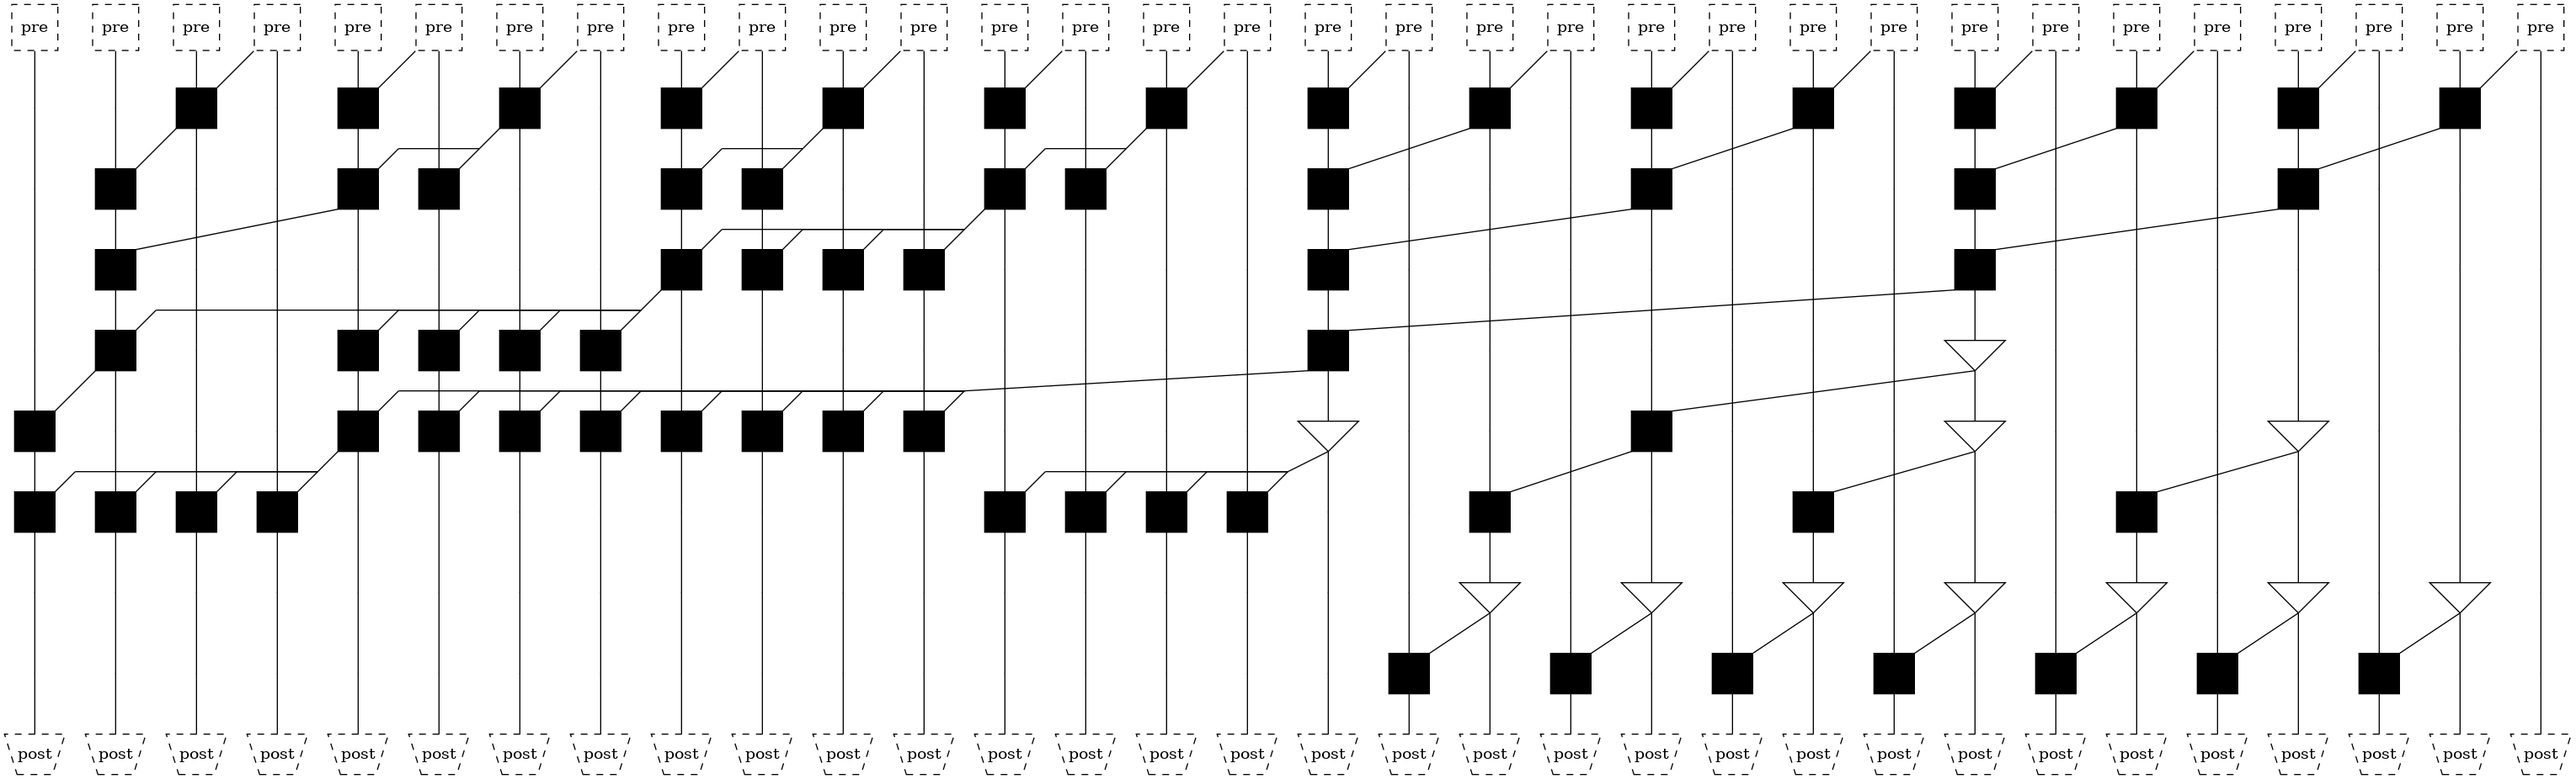
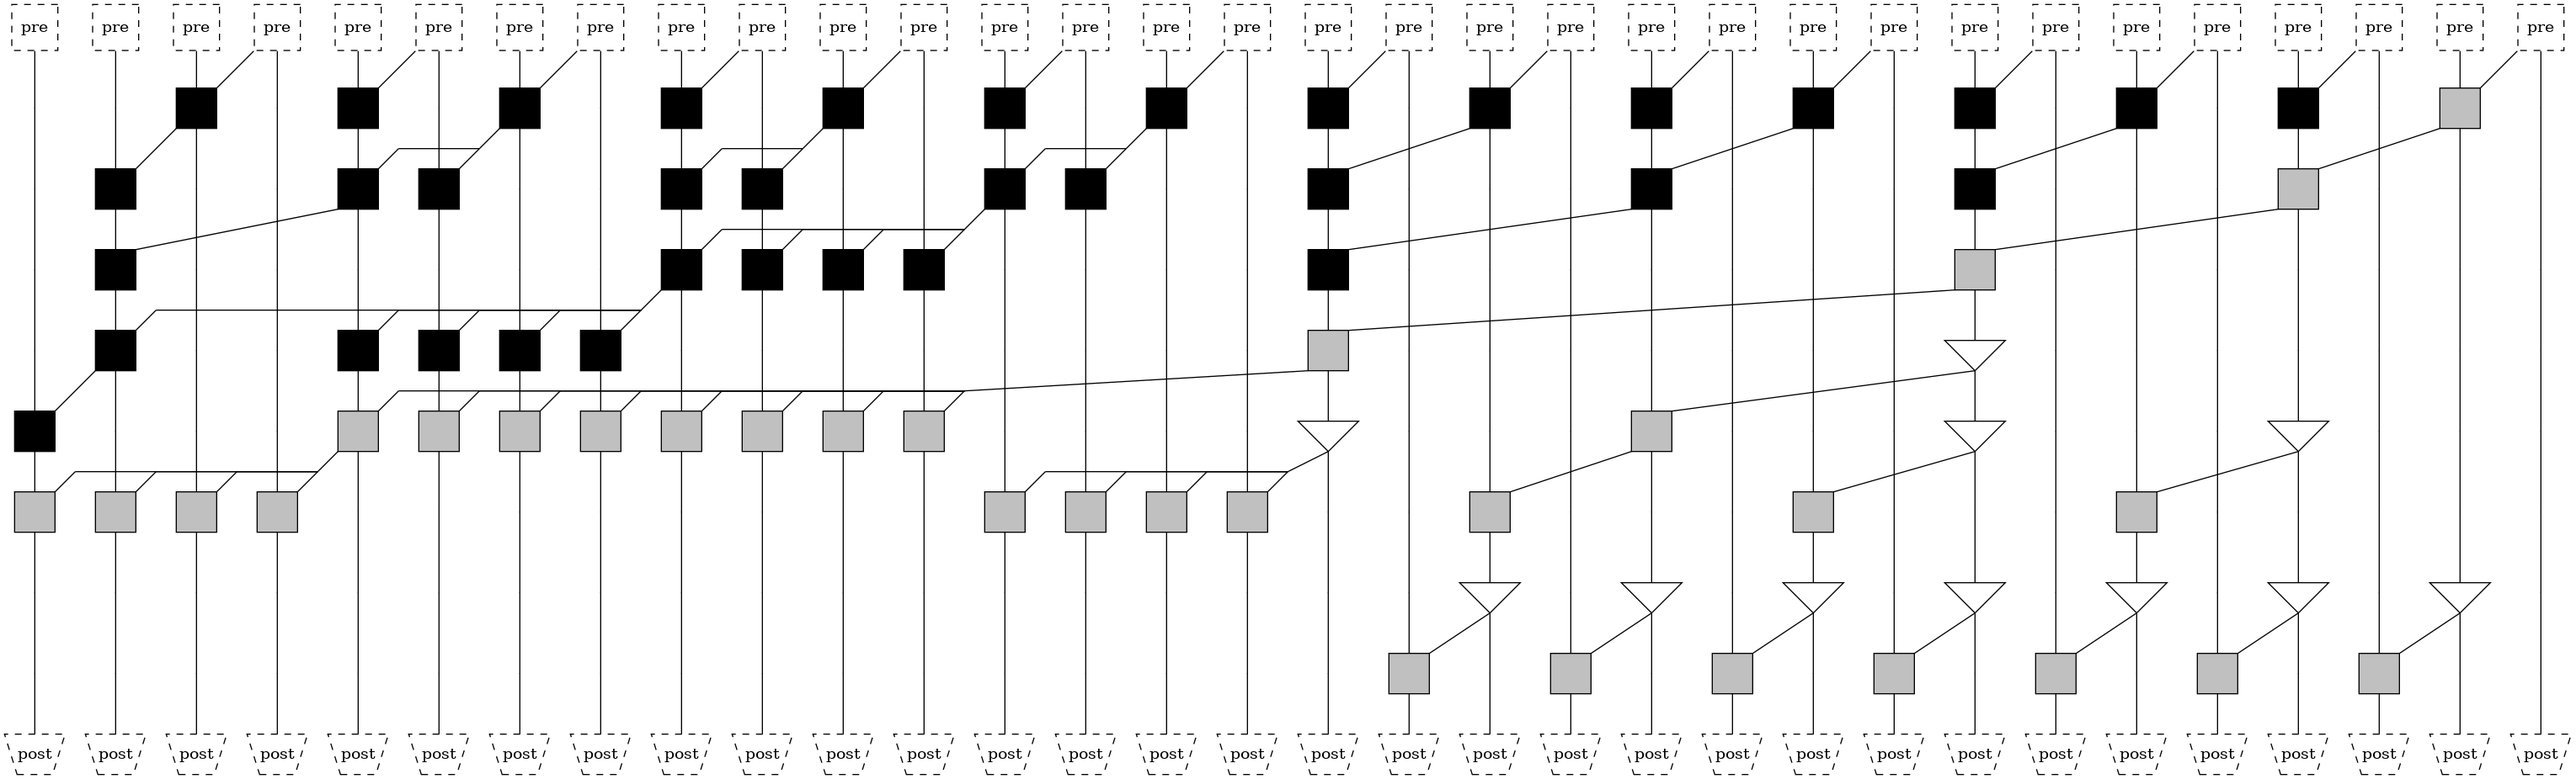
Fully implement grey cells
In order to do so, the module in/out definitions now also specify how
many inputs are diagonal and how many are vertical.

diff --git a/src/pptrees/prefix_tree.py b/src/pptrees/prefix_tree.py
@@ -48,7 +48,7 @@ class prefix_tree(graph):
             # If first pre node is different
             # For example, due to an adder's carry-in
             if a==0 and 'first_pre' in self.node_defs:
-                n = self.add_node(node(a,0,node_defs['first_pre']))
+                n = self.add_node(node(a,0,self.node_defs['first_pre']))
                 n.outs['pout'][0]="$p_lsb"
                 n.outs['gout'][0]="$g_lsb"
             else:
@@ -69,7 +69,11 @@ class prefix_tree(graph):
                         self.add_node(node(b,a,'invis_node'))
                         ctr = num_buf-1
                     else:
-                        self.add_node(node(b,a,self.node_defs['black']),pre=self[b+ctr-1,a-1])
+                        if a == lg(b)+1:
+                            node_color = "grey"
+                        else:
+                            node_color = "black"
+                        self.add_node(node(b,a,self.node_defs[node_color]),pre=self[b+ctr-1,a-1])
                         ctr-=1
             self.dna="sklansky"
         # Initialize to Kogge-Stone
@@ -78,7 +82,11 @@ class prefix_tree(graph):
                 for b in range(self.w):
                     num_buf = 2**(a-1)
                     if b>num_buf-1:
-                        self.add_node(node(b,a,self.node_defs['black']),pre=self[b-num_buf,a-1])
+                        if a == lg(b)+1:
+                            node_color = "grey"
+                        else:
+                            node_color = "black"
+                        self.add_node(node(b,a,self.node_defs[node_color]),pre=self[b-num_buf,a-1])
                     else:
                         self.add_node(node(b,a,'buffer_node'))
             self.dna="kogge-stone"
@@ -89,7 +97,7 @@ class prefix_tree(graph):
                     if b!=a:
                         self.add_node(node(b,a,'invis_node'))
                     else:
-                        self.add_node(node(b,a,self.node_defs['black']),pre=self[b-1,a-1])
+                        self.add_node(node(b,a,self.node_defs['grey']),pre=self[b-1,a-1])
             self.dna="ripple"
 
         # Post-processing
@@ -125,6 +133,8 @@ class prefix_tree(graph):
 
         if pre is not None and not isinstance(pre,node):
             raise TypeError("provided predecessor node must be a node")
+        if pre is not None and pre.m not in self.node_defs.values():
+            raise ValueError("provided predecessor node type must be defined for this tree")
 
         # Calls on super-method
         n = super().add_node(n)
@@ -144,15 +154,14 @@ class prefix_tree(graph):
             self._add_top(self.bot(n))
 
         # If pre_node is added, HDL connect it to input pins
-        if modules[n.m]['type']=='pre':
-            if n.x==0:
-                n.ins['cin'][0]='$cin'
-            else:
-                n.ins['a_in'][0]='$a[{0}]'.format(n.x-1)
-                n.ins['b_in'][0]='$b[{0}]'.format(n.x-1)
+        if n.m == self.node_defs['first_pre']:
+            n.ins['cin'][0]='$cin'
+        if n.m == self.node_defs['pre']:
+            n.ins['a_in'][0]='$a[{0}]'.format(n.x-1)
+            n.ins['b_in'][0]='$b[{0}]'.format(n.x-1)
 
         # If post_node is added, HDL connect it to output pins
-        if modules[n.m]['type']=='post':
+        if n.m == self.node_defs['post']:
             #n.ins['gin'][0]='$c{0}'.format(n.x)
             n.outs['sum'][0]='$sum[{0}]'.format(n.x)
 
@@ -162,6 +171,7 @@ class prefix_tree(graph):
         """Recalculates the group P/G of a node
 
         TO-DO: Rename P/G to a more general, addition-nonspecific, term.
+        TO-DO: First check if node actually exists in tree.
         """
         if modules[n.m]['type']=='pre':
             return
@@ -257,8 +267,7 @@ class prefix_tree(graph):
         return ret
     
     def walk_downstream(self,n,fun=lambda x: x):
-        """Traverse the graph downstream of node n, applying fun to each node
-        """
+        """Traverse the graph downstream of node n, applying fun to each node"""
         # Need to go in two directions: vertical and diagonal
         bot = self.bot(n)
         post = self.post(n)
@@ -275,12 +284,19 @@ class prefix_tree(graph):
         top = self.top(n)
         if top is None: return
 
-        # Connect to the last pin in the pin/gin arrays
-        for name,bits,_ in modules[n.m]['ins']:
-            match = next(x for x in modules[top.m]['outs'] if x[0]==verso_pin(name))
-            for b in range(match[1]):
-                b+=1; pos = match[1]-b
-                self.add_edge(top,(match[0],pos),n,(name,pos))
+        # Connect top to the last pins in the node's input list
+        for name,bits,num_diag in modules[n.m]['ins']:
+            # Check whether the top node has a matching out for our in
+            try:
+                name_m,bits_m = next(x for x in modules[top.m]['outs'] if x[0]==verso_pin(name))
+            # If not, just leave it unconnected and hope for the best?..
+            except StopIteration:
+                continue
+            # Connect pins down to the allowed number of diagonal pins
+            for b in range(bits-num_diag):
+                pos_n = bits - b - 1
+                pos_m = bits_m - b - 1
+                self.add_edge(top,(name_m,pos_m),n,(name,pos_n))
 
         # Update pg
         n.pg = n.pg|top.pg
@@ -291,10 +307,16 @@ class prefix_tree(graph):
         # If the provided "pre" is None, do nothing
         if pre is None: return
 
-        # Connect to the first pin in the pin/gin arrays
-        for name,bits,_ in modules[n.m]['ins']:
-            match = next(x for x in modules[pre.m]['outs'] if x[0]==verso_pin(name))
-            for b in range(match[1]):
+        # Connect pre to the first pins in the node's input list
+        for name,bits,num_diag in modules[n.m]['ins']:
+            # Check whether the pre node has a matching out for our in
+            try:
+                match = next(x for x in modules[pre.m]['outs'] if x[0]==verso_pin(name))
+            # If not, just leave it unconnected and hope for the best?..
+            except StopIteration:
+                continue
+            # Connect pins up to the allowed number of diagonal pins
+            for b in range(num_diag):
                 pos = b
                 self.add_edge(pre,(match[0],pos),n,(name,pos))
 
@@ -1020,9 +1042,13 @@ class prefix_tree(graph):
 
         # pre(a) = b, and any other additions necessary
         pre = self.remove_all_edges(pre,a)
+
+        if not node._exists(b):
+            b = self._morph_node(b,'buffer_node')
+        self._add_pre(a,b)
         self.walk_downstream(a,fun=self._recalc_pg)
-        c=[a]+c
-        d=[b]+d
+        
+        # any other additions necessary
         for x,y in zip(c,d):
             x=self[x.x,x.y]; y=self[y.x,y.y];
             x=self._morph_node(x,self.node_defs['black'])
@@ -1060,9 +1086,13 @@ class prefix_tree(graph):
 
         # pre(a) = b, and any other additions necessary
         pre = self.remove_all_edges(pre,a)
+
+        if not node._exists(b):
+            b = self._morph_node(b,'buffer_node')
+        self._add_pre(a,b)
         self.walk_downstream(a,fun=self._recalc_pg)
-        c=[a]+c
-        d=[b]+d
+        
+        # any other additions necessary
         for x,y in zip(c,d):
             x=self[x.x,x.y]; y=self[y.x,y.y];
             x=self._morph_node(x,self.node_defs['black'])

diff --git a/src/pptrees/modules.py b/src/pptrees/modules.py
@@ -22,8 +22,8 @@ endmodule
 ppa_black['shape']='square'
 ppa_black['fillcolor']='black'
 
-# List of inputs represented by (name, bits) tuple
-ppa_black['ins']=[('gin',2),('pin',2)]
+# List of inputs represented by (name, bits, diagonal_bits) tuple
+ppa_black['ins']=[('gin',2,1),('pin',2,1)]
 
 # List of outputs represented by (name, bits) tuple
 ppa_black['outs']=[('gout',1),('pout',1)]
@@ -69,8 +69,8 @@ endmodule
 ppa_grey['shape']='square'
 ppa_grey['fillcolor']='grey'
 
-# List of inputs represented by (name, bits) tuple
-ppa_grey['ins']=[('gin',2),('pin',1)]
+# List of inputs represented by (name, bits, diagonal_bits) tuple
+ppa_grey['ins']=[('gin',2,1),('pin',1,1)]
 
 # List of outputs represented by (name, bits) tuple
 ppa_grey['outs']=[('gout',1)]
@@ -99,13 +99,13 @@ modules['ppa_grey']=ppa_grey
 ppaL_black=dict()
 
 ppaL_black['verilog']="""
-module ppaL_black(hout, iout, gin, pin);
+module ppaL_black(gout, pout, gin, pin);
 
 \tinput [1:0] gin, pin;
-\toutput hout, iout;
+\toutput gout, pout;
 
-\tand2 U1(iout,pin[0],pin[1]);
-\tor2 U2(hout,gin[0],gin[1]);
+\tand2 U1(pout,pin[0],pin[1]);
+\tor2 U2(gout,gin[0],gin[1]);
 
 endmodule
 """
@@ -113,11 +113,11 @@ endmodule
 ppaL_black['shape']='square'
 ppaL_black['fillcolor']='ppa_black'
 
-# List of inputs represented by (name, bits) tuple
-ppaL_black['ins']=[('gin',2),('pin',2)]
+# List of inputs represented by (name, bits, diagonal_bits) tuple
+ppaL_black['ins']=[('gin',2,1),('pin',2,1)]
 
 # List of outputs represented by (name, bits) tuple
-ppaL_black['outs']=[('hout',1),('iout',1)]
+ppaL_black['outs']=[('gout',1),('pout',1)]
 
 # Returns function that executes the logic of the module
 ppaL_black['logic'] = lambda gin,pin: [
@@ -144,12 +144,12 @@ modules['ppaL_black']=ppaL_black
 ppaL_grey=dict()
 
 ppaL_grey['verilog']="""
-module ppaL_grey(hout, gin);
+module ppaL_grey(gout, gin);
 
 \tinput[1:0] gin;
-\toutput hout;
+\toutput gout;
 
-\tor2 U1(hout,gin[0],gin[1]);
+\tor2 U1(gout,gin[0],gin[1]);
 
 endmodule
 """
@@ -157,11 +157,11 @@ endmodule
 ppaL_grey['shape']='square'
 ppaL_grey['fillcolor']='ppa_grey'
 
-# List of inputs represented by (name, bits) tuple
-ppaL_grey['ins']=[('gin',2)]
+# List of inputs represented by (name, bits, diagonal_bits) tuple
+ppaL_grey['ins']=[('gin',2,1)]
 
 # List of outputs represented by (name, bits) tuple
-ppaL_grey['outs']=[('hout',1)]
+ppaL_grey['outs']=[('gout',1)]
 
 # Returns function that executes the logic of the module
 ppaL_grey['logic'] = lambda gin: [
@@ -201,7 +201,7 @@ endmodule
 buffer_node['shape']='invtriangle'
 buffer_node['fillcolor']='white'
 
-buffer_node['ins']=[('gin',1),('pin',1)]
+buffer_node['ins']=[('gin',1,0),('pin',1,0)]
 buffer_node['outs']=[('gout',1),('pout',1)]
 
 buffer_node['logic'] = lambda pin,gin: [pin,gin]
@@ -243,7 +243,7 @@ invis_node['width']=0
 invis_node['height']=0
 invis_node['fillcolor']='black'
 
-invis_node['ins']=[('gin',1),('pin',1)]
+invis_node['ins']=[('gin',1,0),('pin',1,0)]
 invis_node['outs']=[('gout',1),('pout',1)]
 
 invis_node['logic'] = lambda pin,gin: [pin,gin]
@@ -283,7 +283,7 @@ ppa_pre['fillcolor']='white'
 ppa_pre['label']='pre'
 ppa_pre['style']='dashed'
 
-ppa_pre['ins']=[('a_in',1),('b_in',1)]
+ppa_pre['ins']=[('a_in',1,0),('b_in',1,0)]
 ppa_pre['outs']=[('pout',1),('gout',1)]
 
 ppa_pre['logic'] = lambda a,b: [
@@ -321,7 +321,7 @@ module ppa_first_pre(cin, pout, gout);
 endmodule
 """
 
-ppa_first_pre['ins']=[('cin',1)]
+ppa_first_pre['ins']=[('cin',1,0)]
 
 ppa_first_pre['logic'] = lambda cin: [0,cin]
 
@@ -348,7 +348,7 @@ ppa_post['label']='post'
 ppa_post['style']='dashed'
 ppa_post['fixedsize']='shape'
 
-ppa_post['ins']=[('pin',1),('gin',1)]
+ppa_post['ins']=[('gin',1,0),('pin',1,1)]
 ppa_post['outs']=[('sum',1)]
 
 ppa_post['logic'] = lambda pin,gin: [pin^gin]

diff --git a/src/pptrees/prefix_graph.py b/src/pptrees/prefix_graph.py
@@ -42,7 +42,7 @@ class prefix_node():
         self.x=x; self.y=y; self.m=module; self.flat=flat;
 
         # Create inputs and outputs dictionaries; initialize to None
-        self.ins={x:[None]*y for x,y in modules[self.m]['ins']}
+        self.ins={x:[None]*y for x,y,z in modules[self.m]['ins']}
         self.outs={x:[None]*y for x,y in modules[self.m]['outs']}
 
         # A list of all nodes that directly or indirectly feed into this one
